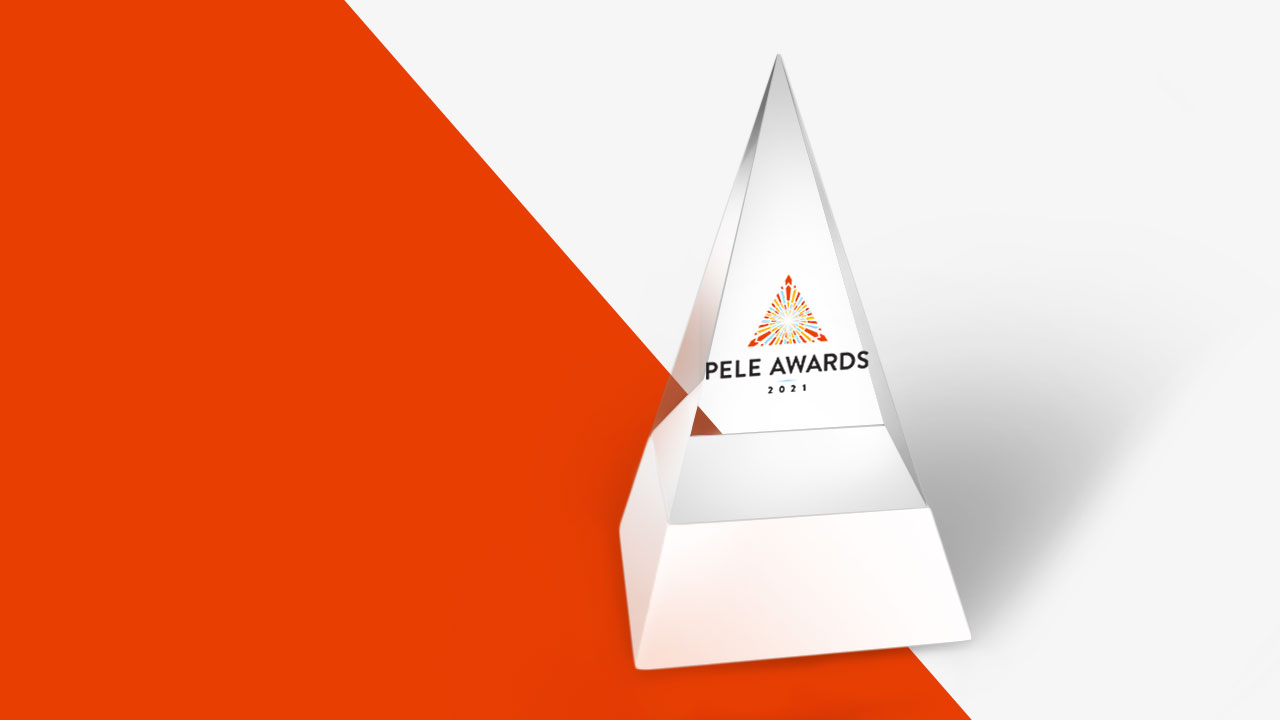
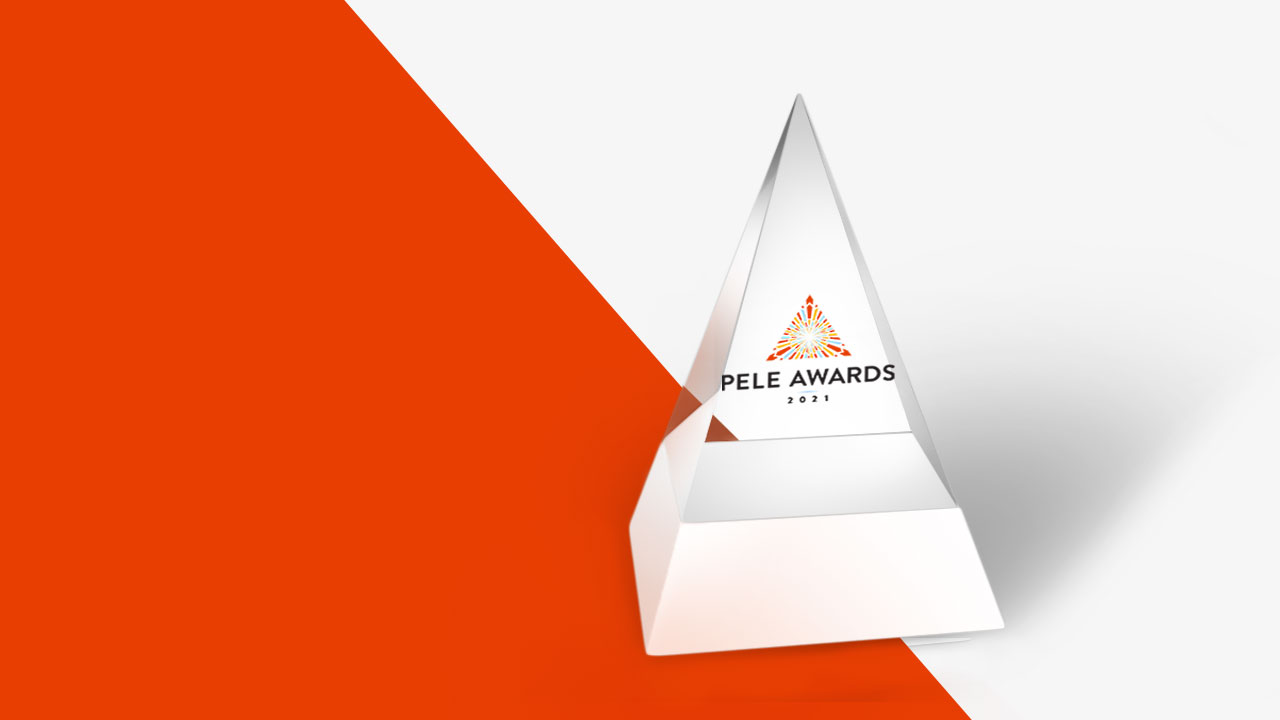
added pele images

Changed region(s): [[0.4688, 0.0611, 0.9062, 0.9472]]

diff --git a/pele.html b/pele.html
@@ -143,7 +143,7 @@
 
         <section class="summary">
             <span class="small-title">Pele Awards</span>
-            <p>The Pele Awards is a long-standing competition for Hawai‘i’s creative community in the Advertising and Marketing field. Directly linked to the national ADDY awards, chosen winners will represent District 13 from our professional and college&nbsp;divisions.
+            <p>The Pele Awards is a long-standing competition for Hawai‘i’s creative community in the Advertising and Marketing fields. Directly linked to the national ADDY awards, chosen winners will represent District 13 from our professional and college&nbsp;divisions.
             </p>
         </section>
 
@@ -338,9 +338,12 @@
             </div>
 
             <div class="pele_medals">
-                <span class="teal_subhead">medals and trophys</span>
-                <a href="img/solar/fb_sun.jpg" data-fancybox="gallery">
-                    <img src="img/solar/fb_sun.jpg" alt="banner_sun_fb">
+                <span class="teal_subhead">medals and trophy</span>
+                <a href="img/pele/medal_mockup.jpg" data-fancybox="gallery">
+                    <img src="img/pele/medal_mockup.jpg" alt="medal medal_mockup">
+                </a>
+                <a href="img/pele/pele_hero.jpg" data-fancybox="gallery">
+                    <img src="img/pele/pele_hero.jpg" alt="pele_trophy">
                 </a>
             </div>
         </div>
